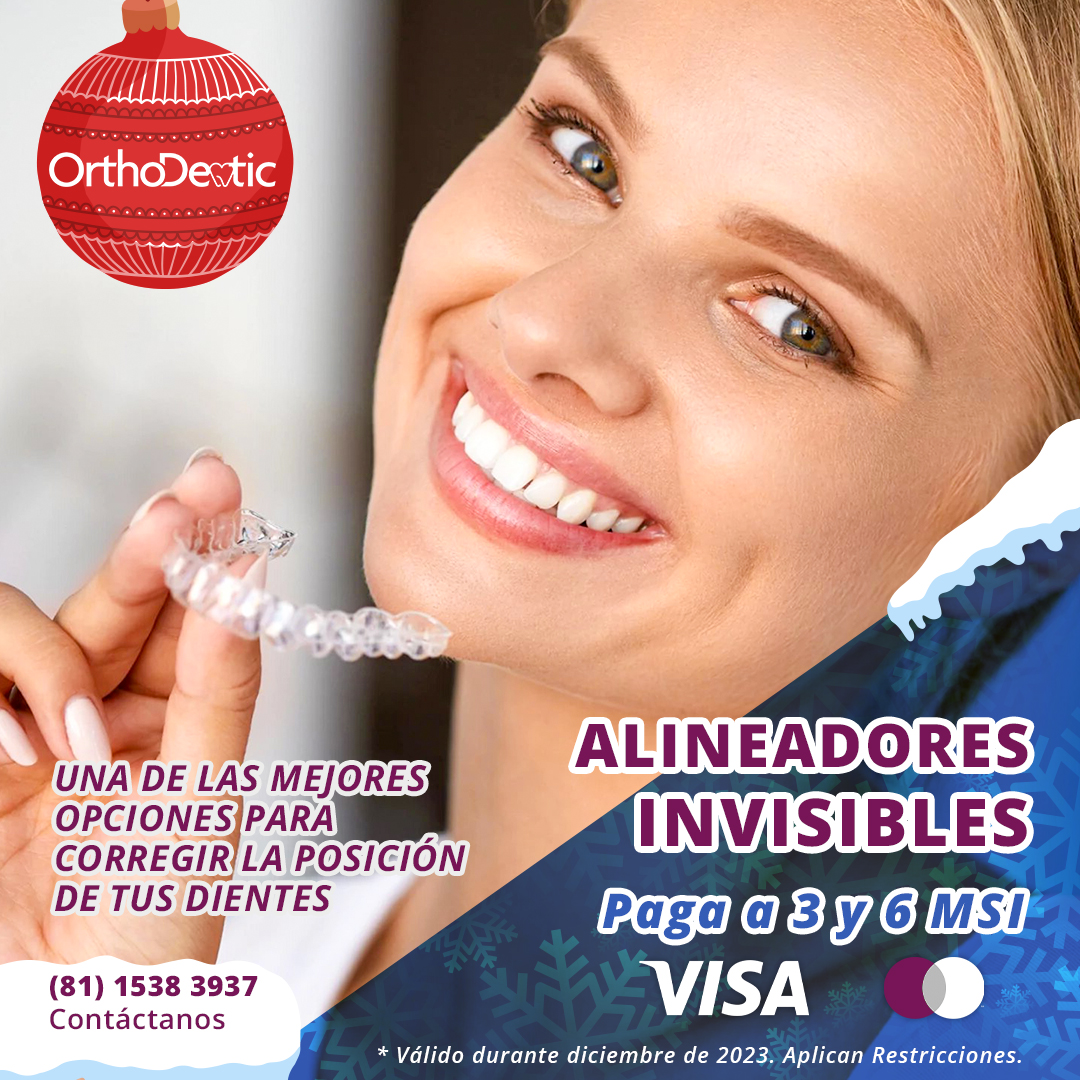
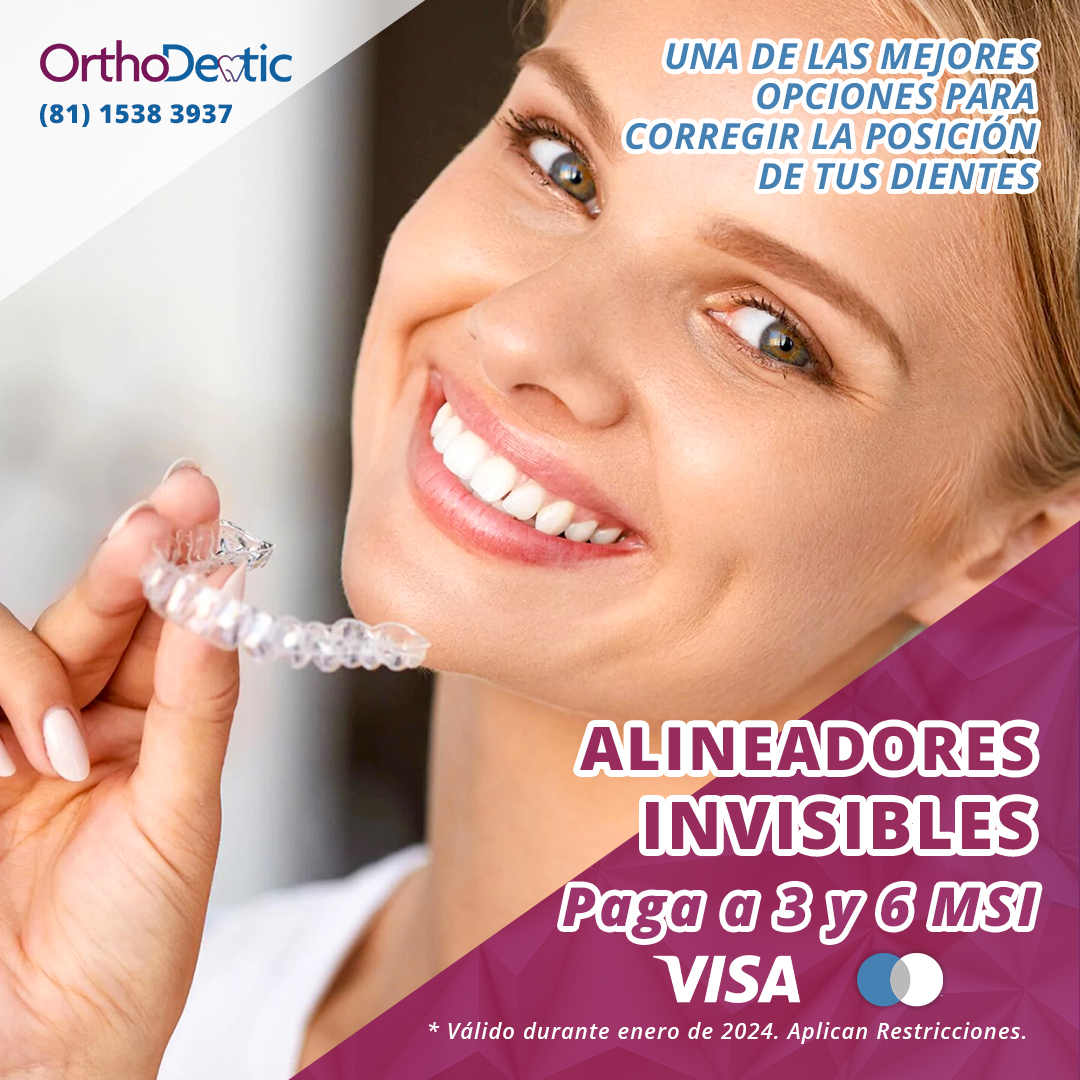
Nuevas promociones (#Enero)

diff --git a/promociones.html b/promociones.html
@@ -177,14 +177,14 @@
       <img src="imagenes/promociones/buenfin.png" alt="">
     </div>-->
     
-    <section class="container_promos" style="display: none !important;">
+    <section class="container_promos">
       <div
         class="promociones_item"
         data-aos="fade-down"
         data-aos-duration="1000"
       >
       <div class="item_promocion uno_promo">
-        <img src="imagenes/promociones/carillas-cuadrado-orthodentic.jpg" alt="" />
+        <img src="imagenes/promociones/alineadores-cuadrado-orthodentic.jpg" alt="" />
         <a
           href="https://api.whatsapp.com/send?phone=528115383937"
           target="_blank"
@@ -193,7 +193,7 @@
         >
       </div>
       <div class="item_promocion uno_promo">
-        <img src="imagenes/promociones/limpiezanew-cuadrado-orthodentic.jpg" alt="" />
+        <img src="imagenes/promociones/blanqueamiento-cuadrado-orthodentic.jpg" alt="" />
         <a
           href="https://api.whatsapp.com/send?phone=528115383937"
           target="_blank"
@@ -202,7 +202,7 @@
         >
       </div>
       <div class="item_promocion uno_promo">
-        <img src="imagenes/promociones/limpiezas-cuadrado-orthodentic.jpg" alt="" />
+        <img src="imagenes/promociones/ortodoncia-cuadrado-orthodentic.jpg" alt="" />
         <a
           href="https://api.whatsapp.com/send?phone=528115383937"
           target="_blank"
@@ -210,15 +210,6 @@
           >Más Información</a
         >
       </div>
-        <div class="item_promocion uno_promo">
-          <img src="imagenes/promociones/alineadores-cuadrado-orthodentic.jpg" alt="" />
-          <a
-            href="https://api.whatsapp.com/send?phone=528115383937"
-            target="_blank"
-            onclick="return gtag_report_conversion('https://api.whatsapp.com/send?phone=528115383937');"
-            >Más Información</a
-          >
-        </div>
       </div>
     </section>
     <div class="metodos_de_pago">

diff --git a/index.html b/index.html
@@ -564,7 +564,7 @@ In your html page, add the snippet and call gtag_report_conversion when someone 
       </div>
     </div>
     <!--Promociones-->
-    <div class="slider_marcas" style="display: none !important;">
+    <div class="slider_marcas">
       <div class="efecto_uno">
         <h2>Nuestras promociones :</h2>
       </div>
@@ -577,7 +577,7 @@ In your html page, add the snippet and call gtag_report_conversion when someone 
           data-section="home"
           data-value="img_uno"
         >
-          <img src="imagenes/promociones/limpiezanew-cuadrado-orthodentic.jpg" alt="" />
+          <img src="imagenes/promociones/alineadores-cuadrado-orthodentic.jpg" alt="" />
           <a href="promociones.html">Ver más promociones</a>
         </div>
         <div
@@ -587,7 +587,7 @@ In your html page, add the snippet and call gtag_report_conversion when someone 
           data-section="home"
           data-value="img_dos"
         >
-          <img src="imagenes/promociones/limpiezas-cuadrado-orthodentic.jpg" alt="" />
+          <img src="imagenes/promociones/blanqueamiento-cuadrado-orthodentic.jpg" alt="" />
           <a href="promociones.html">Ver más promociones</a>
         </div>
         <div
@@ -597,7 +597,7 @@ In your html page, add the snippet and call gtag_report_conversion when someone 
           data-section="home"
           data-value="img_tres"
         >
-          <img src="imagenes/promociones/alineadores-cuadrado-orthodentic.jpg" alt="" />
+          <img src="imagenes/promociones/ortodoncia-cuadrado-orthodentic.jpg" alt="" />
           <a href="promociones.html">Ver más promociones</a>
         </div>
       </div>
